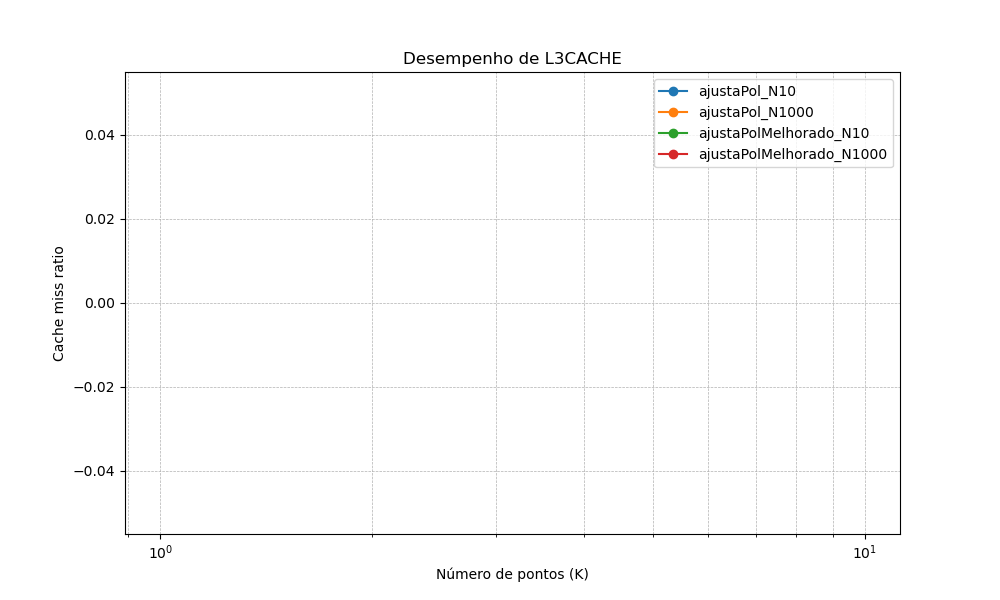
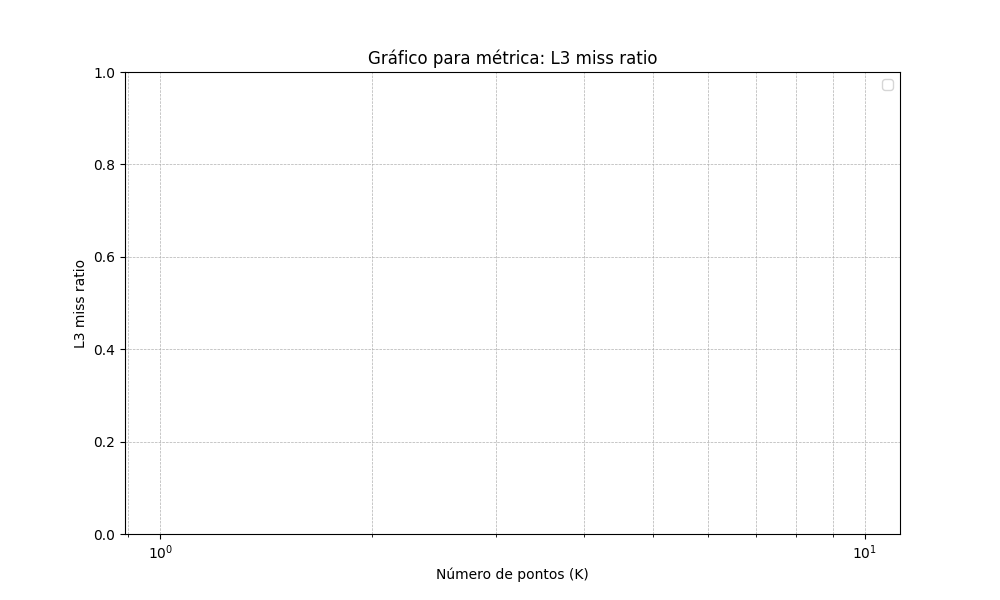
ue

diff --git a/graphs.py b/graphs.py
@@ -1,71 +1,72 @@
 import os
 import matplotlib.pyplot as plt
-import re
+import numpy as np
 
-def load_metrics(input_dir, metric_name):
-    data = {}
-    versions = ["ajustaPol", "ajustaPolMelhorado"]
-    N_values = [10, 1000]
+# Diretório contendo os arquivos
+resultados_dir = "resultados_likwid"
 
-    for version in versions:
-        for N in N_values:
-            key = f"{version}_N{N}"
-            data[key] = {"K": [], "value": []}
+# Métricas a serem extraídas
+metrics = [
+    ("L3CACHE", "L3 miss ratio", "l3cache_miss_ratio.png", "L3 miss ratio"),
+    ("ENERGY", "Energy [J]", "energia.png", "Energy [J]"),
+    ("FLOPS_DP", "DP MFLOP/s", "flops_dp.png", "DP MFLOP/s"),
+]
 
-            for file in os.listdir(input_dir):
-                if file.startswith(f"{version}_N{N}") and metric_name in file:
-                    K = int(re.search(r'_K(\d+)_', file).group(1))
-                    with open(os.path.join(input_dir, file), "r") as f:
-                        content = f.read()
-                        if metric_name == "L3CACHE":
-                            match = re.search(r"L3 cache miss ratio:\s+([\d.]+)", content)
-                        elif metric_name == "ENERGY":
-                            match = re.search(r"Energy \[J\]:\s+([\d.]+)", content)
-                        elif metric_name == "FLOPS_DP":
-                            match = re.search(r"DP MFLOP/s:\s+([\d.]+)", content)
-                        elif metric_name == "FLOPS_AVX_DP":
-                            match = re.search(r"AVX DP MFLOP/s:\s+([\d.]+)", content)
-                        else:
-                            match = None
+# Função para extrair valores de um arquivo
+def extract_metric(file_path, metric_name, metric_key):
+    k_values = []
+    metric_values = []
+    with open(file_path, 'r') as file:
+        lines = file.readlines()
+        current_k = None
+        
+        for line in lines:
+            # Procurar o valor de K no início do arquivo
+            if line.strip().isdigit():
+                current_k = int(line.strip())
+            
+            # Localizar a tabela de métricas
+            if metric_name in line and "Group 1 Metric" in line:
+                for metric_line in lines[lines.index(line):]:
+                    if metric_key in metric_line:
+                        # Tentar extrair o valor da métrica
+                        try:
+                            value = float(metric_line.split(',')[-1].strip())
+                            if current_k is not None:
+                                k_values.append(current_k)
+                                metric_values.append(value)
+                        except ValueError:
+                            print(f"Valor inválido no arquivo {file_path}, linha: {metric_line}")
+                        break
+    return k_values, metric_values
 
-                        if match:
-                            value = float(match.group(1))
-                            data[key]["K"].append(K)
-                            data[key]["value"].append(value)
-
-    return data
-
-def plot_results(data, metric, ylabel, output_file):
+# Processar os arquivos e gerar gráficos
+for metric, ylabel, output_file, metric_key in metrics:
     plt.figure(figsize=(10, 6))
-
-    for key, results in data.items():
-        plt.plot(
-            results["K"], results["value"], label=key, marker="o"
-        )
-
-    plt.xscale("log")
-    #plt.yscale("log")
-    plt.xlabel("Número de pontos (K)")
+    
+    for root, _, files in os.walk(resultados_dir):
+        for file in files:
+            if metric in file:
+                # Identificar a combinação (N1/N2 e V1/V2) pelo nome do arquivo
+                label = file.replace(".txt", "").replace("_", " ")
+                file_path = os.path.join(root, file)
+                
+                # Extrair os dados
+                k_values, metric_values = extract_metric(file_path, metric, metric_key)
+                
+                # Plotar os dados
+                if k_values and metric_values:
+                    plt.plot(k_values, metric_values, label=label)
+    
+    # Configurar o gráfico
+    plt.xscale('log')
+    plt.xlabel('Número de pontos (K)')
     plt.ylabel(ylabel)
-    plt.title(f"Desempenho de {metric}")
+    plt.title(f'Gráfico para métrica: {ylabel}')
     plt.legend()
     plt.grid(True, which="both", linestyle="--", linewidth=0.5)
+    
+    # Salvar o gráfico
     plt.savefig(output_file)
     plt.close()
 
-if __name__ == "__main__":
-    input_dir = "resultados_likwid"
-
-    # Carregar dados e gerar gráficos
-    metrics = [
-        ("L3CACHE", "Cache miss ratio", "l3cache_miss_ratio.png"),
-        ("ENERGY", "Energia (J)", "energia.png"),
-        ("FLOPS_DP", "FLOPS DP (MFLOP/s)", "flops_dp.png"),
-        ("FLOPS_AVX_DP", "FLOPS AVX DP (MFLOP/s)", "flops_avx_dp.png")
-    ]
-
-    for metric_name, ylabel, output_file in metrics:
-        data = load_metrics(input_dir, metric_name)
-        plot_results(data, metric_name, ylabel, output_file)
-
-    print("Gráficos gerados com sucesso!")
